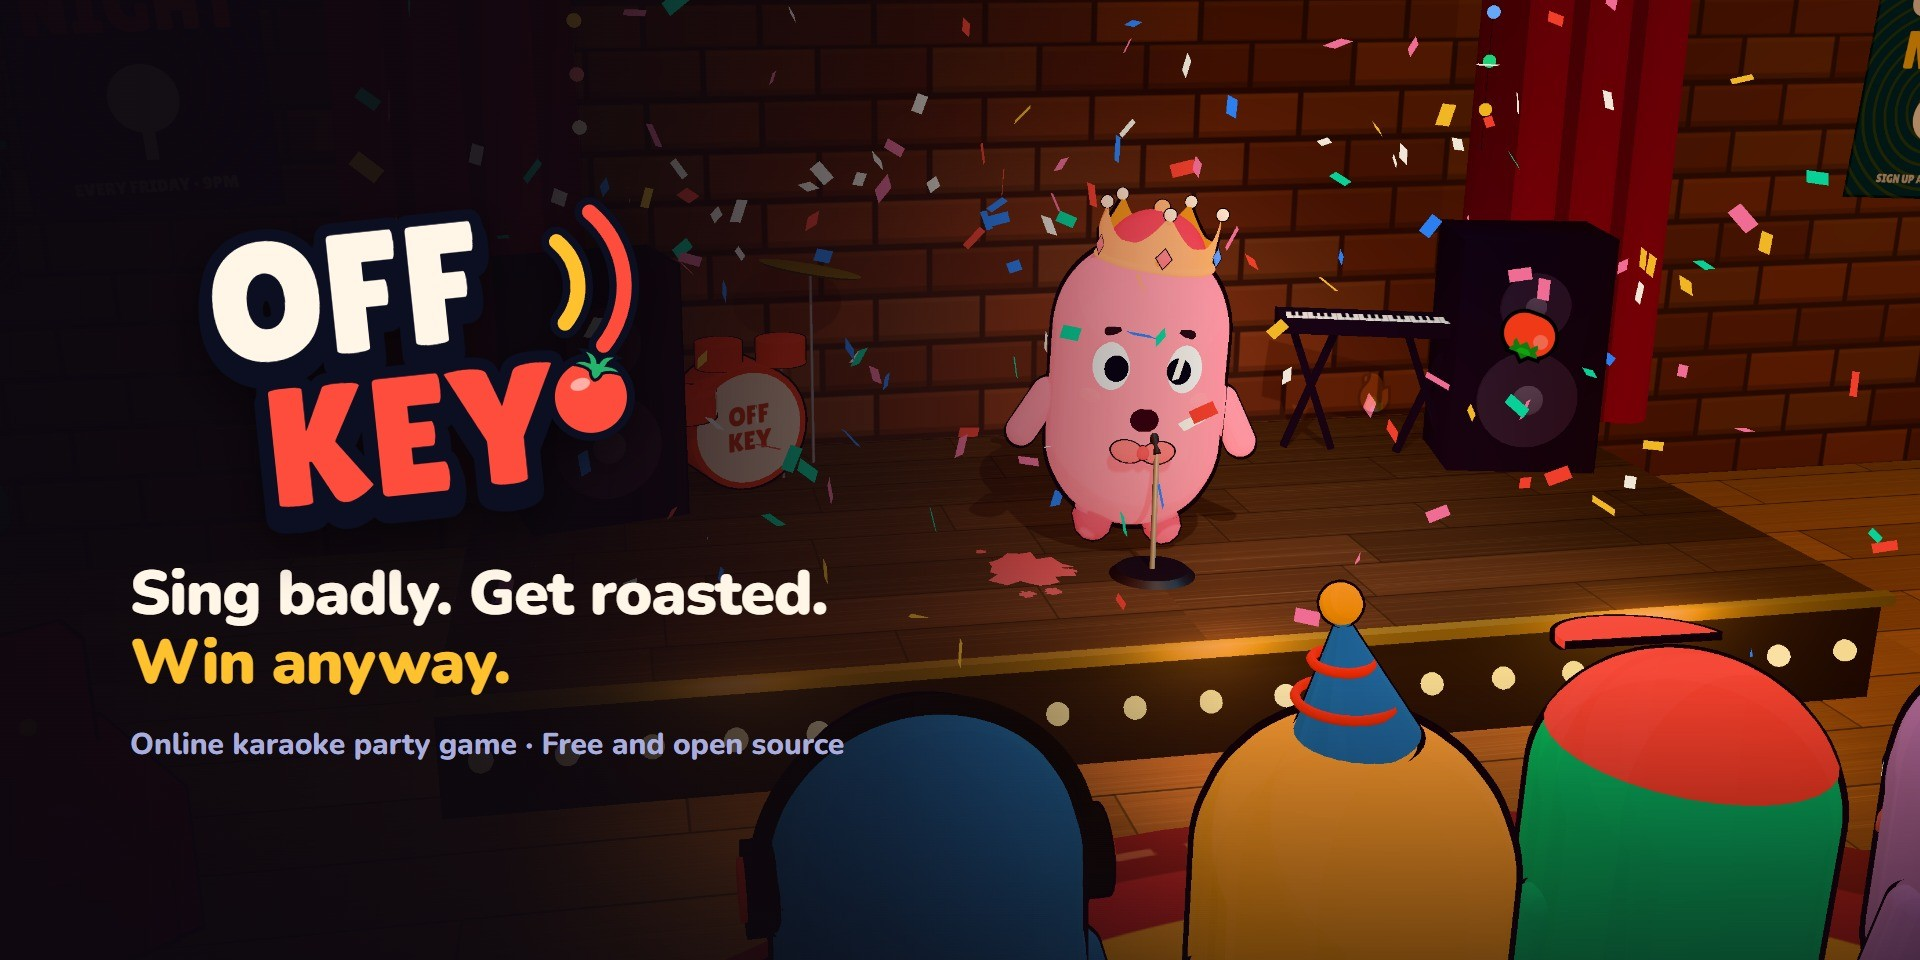
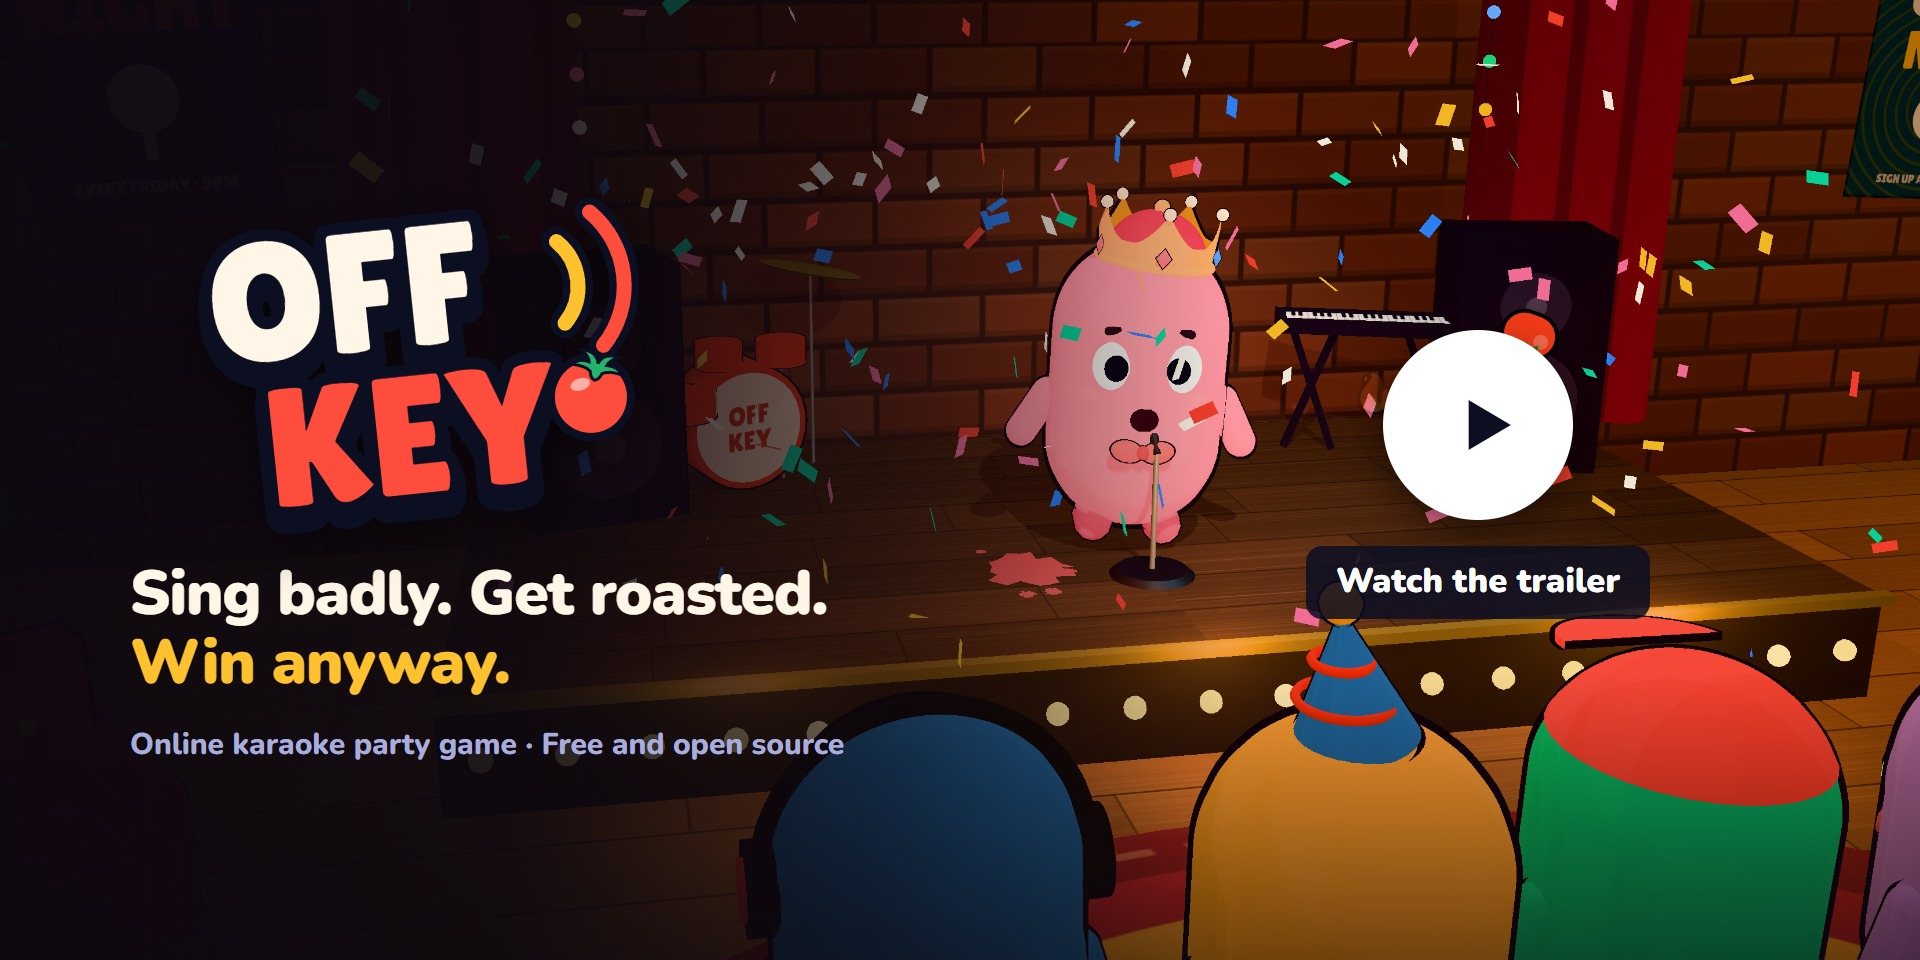
Link the trailer from the README

Changed region(s): [[0.6562, 0.3438, 0.875, 0.6562]]

diff --git a/README.md b/README.md
@@ -4,7 +4,7 @@ A karaoke party game for 2-6 friends, played in the browser. Everyone takes the 
 
 Nothing to download for players: one person runs the server, everyone else opens a link. It works on phones too.
 
-![Off Key](docs/hero.jpg)
+[![Off Key - watch the trailer](docs/hero.jpg)](https://www.youtube.com/watch?v=wJKpDDhbFXo)
 
 | | |
 |---|---|
